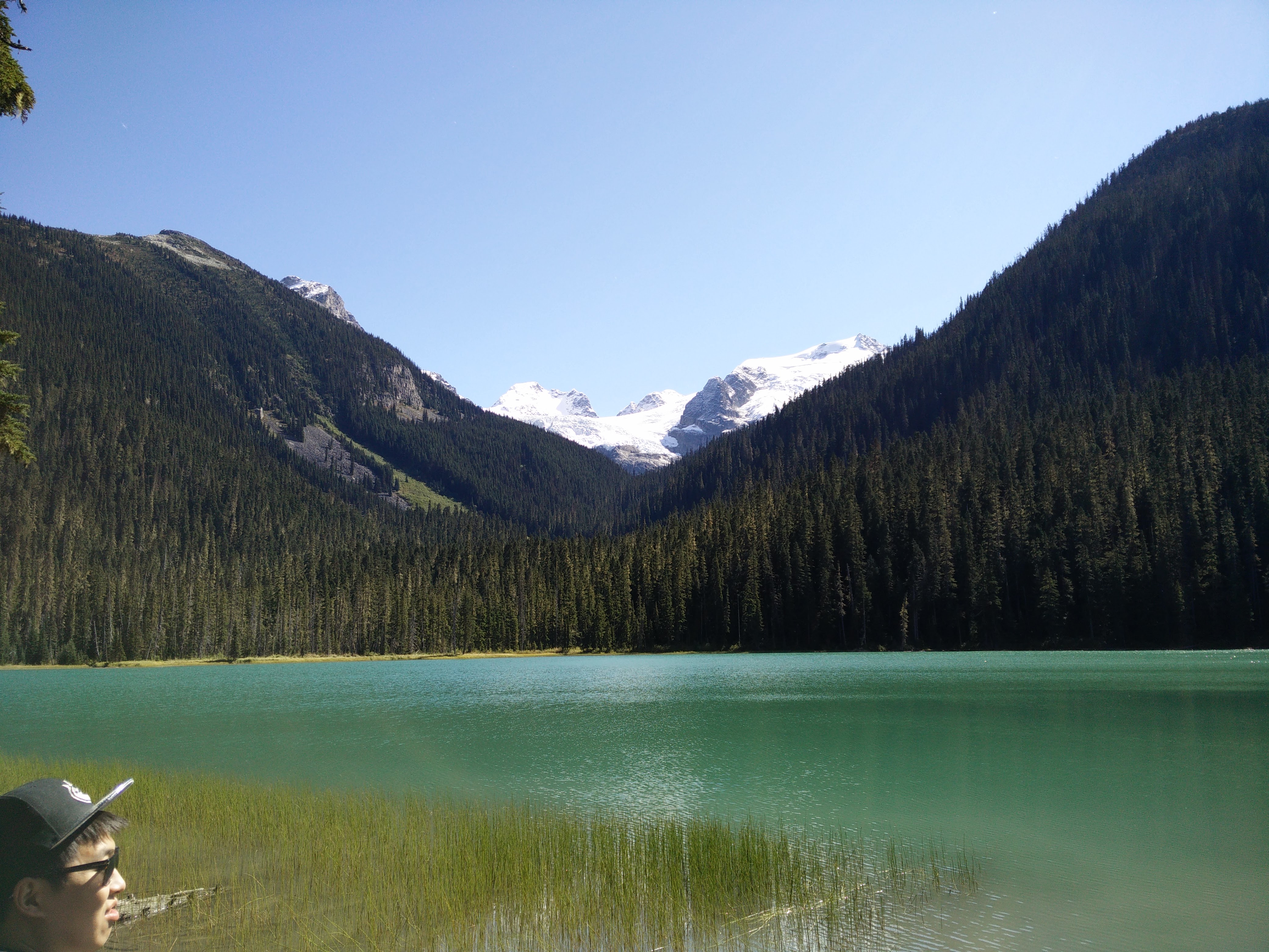
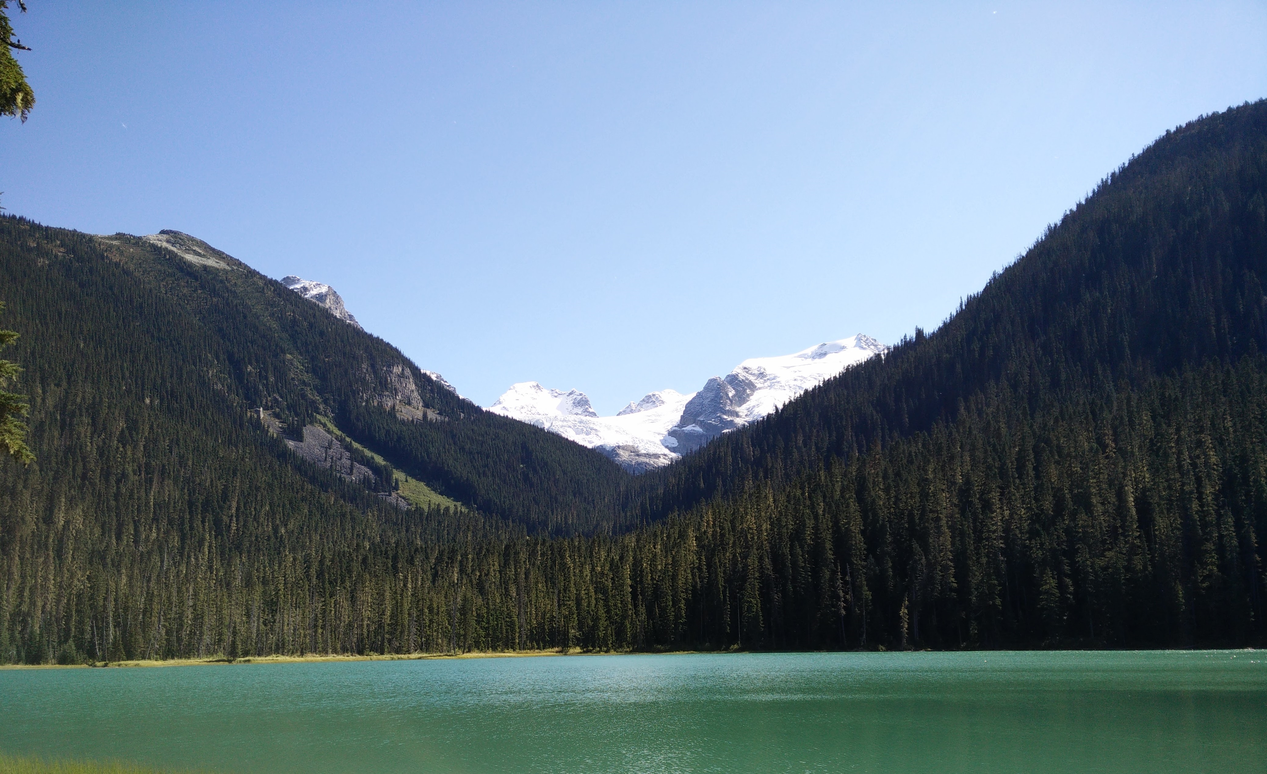
Added dropdown to Contact Me Button, edited parallax photo, fixed padding on Easy Blind text, made color of carousel captions readable

diff --git a/index.html b/index.html
@@ -2,6 +2,8 @@
 <html>
 
 <head>
+    <meta charset="UTF-8">
+   <link rel="shortcut icon" type="image/favicon-icon" href="images/favicon.ico" />
 	 <!--Import materialize.css-->
       <link type="text/css" rel="stylesheet" href="css/materialize.min.css"  media="screen,projection"/>
      <!--Import personal css file-->
@@ -11,9 +13,9 @@
       <meta name="viewport" content="width=device-width, initial-scale=1.0"/>
       <!--Import icons-->
       <link href="https://fonts.googleapis.com/icon?family=Material+Icons" rel="stylesheet">
-      <title>Rayyan Ghani: Home</title>
 
-      
+      <title>Rayyan Ghani: Home</title>
+   
 </head>
 
 <body class="blue-grey lighten-4">
@@ -33,6 +35,23 @@
       	$('.slider').slider({full_width: true, height: 550});
       });
       </script>
+      <script type="text/javascript">
+        $('.dropdown-button').dropdown({
+        inDuration: 300,
+        outDuration: 225,
+        constrain_width: false, // Does not change width of dropdown to that of the activator
+        hover: true, // Activate on hover
+        gutter: 0, // Spacing from edge
+        belowOrigin:true, // Displays dropdown below the button
+        alignment: 'left' // Displays dropdown with edge aligned to the left of button
+          });
+      </script>
+
+    <!-- Dropdown Structure -->
+      <ul id='dropdown1' class='dropdown-content'>
+        <li><a href="mailto:rghani@uwaterloo.ca">Email</a></li>
+        <li><a href="https://github.com/rghani" target="_blank">Github</a></li>
+      </ul>
 
     <!--Website code-->
 
@@ -42,29 +61,31 @@
       <!--Navigation Bar-->
       <div class="navbar-fixed">
       <nav class="z-depth-3">
-      	<div class="nav-wrapper blue-grey darken-2">
-      		<a href="index.html" class="brand-logo valign-wrapper hide-on-small-only">
+        <div class="nav-wrapper blue-grey darken-2">
+          <a href="index.html" class="brand-logo valign-wrapper hide-on-small-only">
             <img src="images/rayyan-logo.png" class="valign" style="height: 60px; width:60px; margin-left:20px; margin-top:2px">
           </a>
           <a href="index.html" class="brand-logo valign-wrapper hide-on-med-and-up">
             <img src="images/rayyan-logo.png" class="valign" style="height:50px; width:50px; margin-left:20px; margin-top:1px">
           </a>
           <a href="#" data-activates="mobile-demo" class="button-collapse"><i class="material-icons">menu</i></a>
-      		<ul id="nav-mobile" class="right hide-on-med-and-down">
-      			<li class="light-blue-text darken-4-text"><a href="aboutmepage"><i class="tiny material-icons left">perm_identity</i>About Me</a></li>
-      			<li class="light-blue-text darken-4-text"><a href="myprojectspage"><i class="tiny material-icons left">code</i>My Projects</a></li>
-      			<li class="light-blue-text darken-4-text"><a href="files/resume.pdf"><i class="tiny material-icons left">description</i>Resume</a></li>
-      			<li class="light-blue-text darken-4-text"><a href="#">Contact Me</a></li>
-      		</ul>
+          <ul id="nav-mobile" class="right hide-on-med-and-down">
+            <li class="light-blue-text darken-4-text"><a href="index"><i class="tiny material-icons left">home</i>Home</a></li>
+            <li class="light-blue-text darken-4-text"><a href="aboutmepage"><i class="tiny material-icons left">perm_identity</i>About Me</a></li>
+            <li class="light-blue-text darken-4-text"><a href="myprojectspage"><i class="tiny material-icons left">code</i>My Projects</a></li>
+            <li class="light-blue-text darken-4-text"><a href="files/resume.pdf"><i class="tiny material-icons left">description</i>Resume</a></li>
+            <li class="light-blue-text darken-4-text"><a class='dropdown-button' data-beloworigin="true" href='#' data-activates='dropdown1'><i class="tiny material-icons left">account_circle</i>Contact Me</a></li>
+          </ul>
           <ul class="side-nav" id="mobile-demo">
             <li class="light-blue-text darken-4-text"><a href="aboutmepage"><i class="tiny material-icons left">perm_identity</i>About Me</a></li>
             <li class="light-blue-text darken-4-text"><a href="myprojectspage"><i class="tiny material-icons left">code</i>My Projects</a></li>
             <li class="light-blue-text darken-4-text"><a href="files/resume.pdf"><i class="tiny material-icons left">description</i>Resume</a></li>s
           </ul>
-      	</div>
+        </div>
       </nav>
       </div>
     </header>
+
 
 
 
@@ -73,30 +94,30 @@
 	    <ul class="slides">
 	      <li class="valign-wrapper">
 	        <img src="images/safenightplaceholder.jpg" class="responsive-img"> <!-- Safe Night Arduino Project Image -->
-	        <div class="caption center-align">
-	          <h3 id="slidetext1" class="deep-orange-text">Safe Night Arduino Project</h3>
-	          <h5 class="deep-orange-text">Bluetooth Controlled Security System</h5>
+	        <div class="caption left-align">
+	          <h3 id="slidetext1" class="black-text">Safe Night Arduino Project</h3>
+	          <h5 class="black-text">Bluetooth Controlled Security System</h5>
 	        </div>
 	      </li>
 	      <li>
 	        <img src="images/legofinal4.jpg"class="responsive-img"> <!--Seasoning Dispensing Robot -->
 	        <div class="caption center-align">
-	          <h3 id="slidetext2" class="deep-orange-text">Seasoning Dispensing Robot</h3>
-	          <h5 class="deep-orange-text">Term-ending Mechatronics project</h5>
+	          <h3 id="slidetext2" class="black-text">Seasoning Dispensing Robot</h3>
+	          <h5 class="black-text">Term-ending Mechatronics project</h5>
 	        </div>
 	      </li>
 	      <li>
 	        <img src="images/easyblind1.jpg"class="responsive-img"> <!--EasyBlind-->
 	        <div class="caption left-align">
-	          <h3 class="deep-orange-text">Easy Blind - Pending</h3>
-	          <h5 class="deep-orange-text">Autonomous Blinds Controller</h5>
+	          <h3 class="black-text">Easy Blind - Pending</h3>
+	          <h5 class="black-text">Autonomous Blinds Controller</h5>
 	        </div>
 	      </li>
 	      <li>
 	        <img src="images/fuelcellcarimage1.jpg"class="responsive-img" id="homeslide4"> <!-- Fuel Cell Car -->
 	        <div class="caption left-align">
-	          <h3 class="deep-orange-text">Autonomous line-following car</h3>
-	          <h5 class="deep-orange-text">Powered by Hydrogen Fuel Cells</h5>
+	          <h3 class="black-text">Autonomous line-following car</h3>
+	          <h5 class="black-text">Powered by Hydrogen Fuel Cells</h5>
 	        </di
 	      </li>
 	    </ul>
@@ -114,7 +135,7 @@
 		    				<div class="card-content valign-wrapper">
 		    					<p class="light-blue-text text-darken-2 valign">I'm an engineering student at the  University of Waterloo studying<a href="https://uwaterloo.ca/mechanical-mechatronics-engineering/future-undergraduate-students/mechatronics-engineering"> Mechatronics Engineering</a>  with a passion for integrated hardware and software development with the goal to pursue entrepenurship.</p>
 		    				</div>
-		    				<div class="card-action deep-orange-text text-accent-4">
+		    				<div class="card-action black-text text-accent-4">
 		    					<a href="aboutmepage">Click to learn more about me</a>
 		    				</div>
 	    			</div>
@@ -129,7 +150,7 @@
 	    				<div class="card-content">
 	    					<p class="light-blue-text text-darken-2">I've worked on various personal and school related projects, ranging from hardware projects to developing autonomous robots.
 	    				</div>
-	    				<div class="card-action deep-orange-text text-darken-4">
+	    				<div class="card-action black-text text-darken-4">
 	    					<a href="myprojectspage">Click to view my projects in detail</a>
 						</div>
 	    			</div>
@@ -143,15 +164,14 @@
             <div class="row">
               <div class="col l6 m6 s12">
                 <h5 class="white-text">Rayyan Ghani</h5>
-                <p class="white-text">Education Card picture by Aaron Yim under a CC License</p>
                 <p class="white-text">Logo designed by Guneet Kalra</p>
 
               </div>
               <div class="col l4 s12">
                 <h5 class="white-text">Contact Me</h3>
                 <ul>
-                  <li><a class="grey-text text-lighten-3" href="mailto:rghani@uwaterloo.ca">Email</a></li>
-                  <li><a class="grey-text text-lighten-3" href="https://github.com/rghani">Github</a></li>
+                  <li><a class="black-text text-lighten-3" href="mailto:rghani@uwaterloo.ca">Email</a></li>
+                  <li><a class="black-text text-lighten-3" href="https://github.com/rghani" target="_blank">Github</a></li>
                 </ul>
               </div>
             </div>

diff --git a/css/styles.css b/css/styles.css
@@ -72,4 +72,8 @@
 	left: 0;
 	right: 0;
 }
+#easyblindtxt{
+	padding-left: 15px;
+}
+
 
